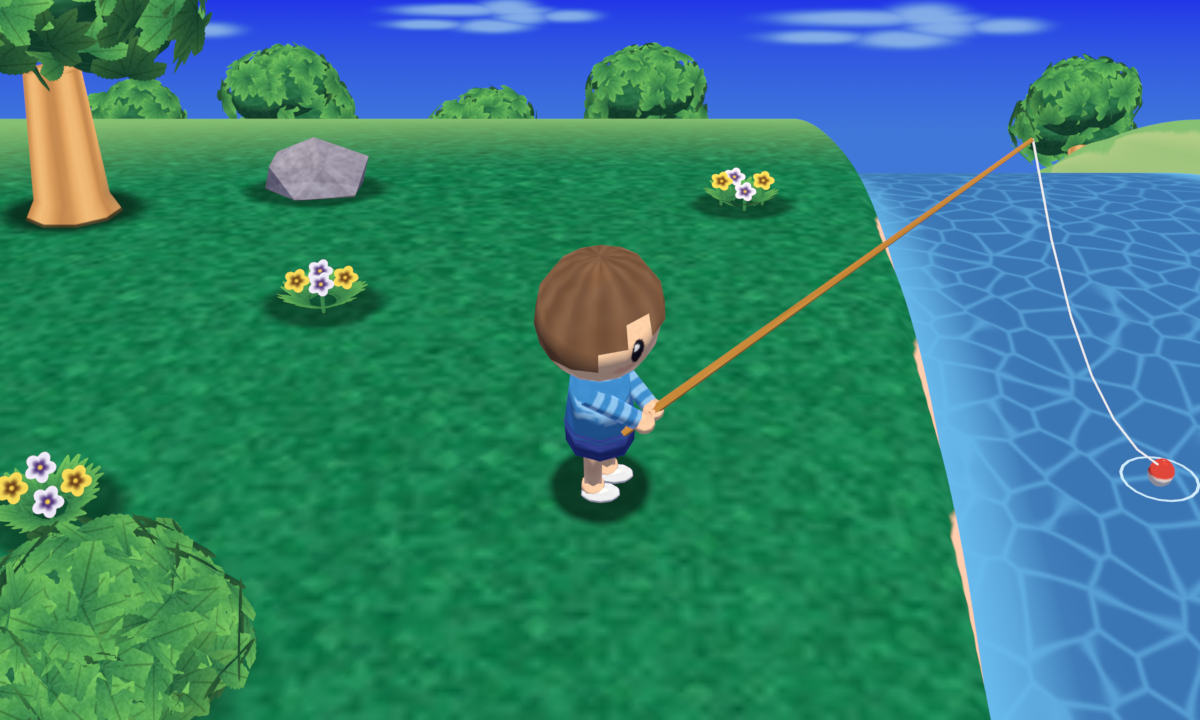
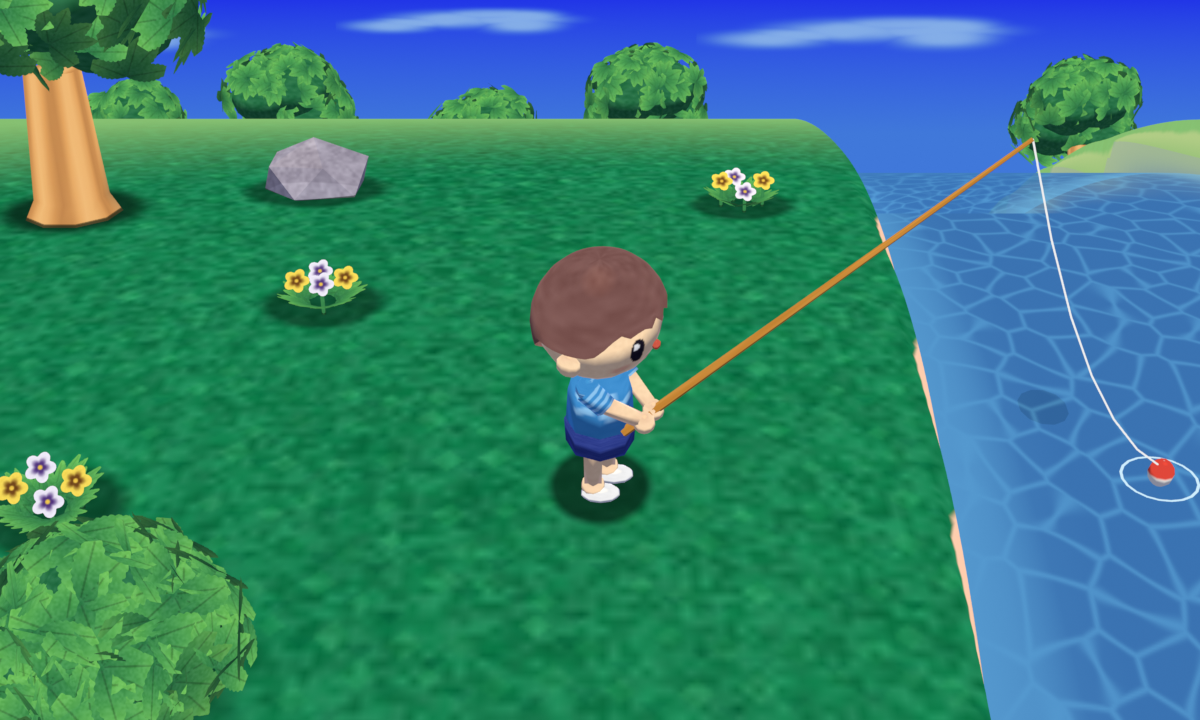
Town test scene: translucent water, cleaned up player head
Water surface is now a translucent blend, with everything under the line
fading by depth toward a pale blue grey and then the water colour (NL#957),
plus a fish silhouette below the surface. The player gets a measured skin
and hair colour, a small nose nub, ear discs, a hair shell with a zigzag
fringe, a mottled hair texture, shoulders, sleeves and forearms. Blueprint
water row and section 15 record the measurements.

Claude-Session: https://claude.ai/code/session_017uV2ZEHp81Umsc7vn6nowa

diff --git a/style_test_town/town_river_test.py b/style_test_town/town_river_test.py
@@ -76,9 +76,11 @@ PAL = {
     "water": "#3A75B4", "water_shallow": "#6BBEF0", "foam": "#FFFFFF",  # M section 4.3 (foam E)
     "foliage": "#4A9C52", "foliage_dark": "#287046", "foliage_light": "#82D362",  # M section 7.3
     "wood": "#E4A560", "wood_dark": "#A1693B", "wood_light": "#FFD391",   # M section 7.3
-    "skin": "#FFD1A8", "skin_shade": "#CE8F79",                         # M section 7.3
+    "skin": "#FDDBB2", "skin_shade": "#CE8F79",       # M skin: median of retail NL#941, 942, 944, 945 (shade 7.3)
     "rock": "#9992A2",                                                  # M section 4.2
-    "hair": "#6B4A35", "hair_light": "#8E6648",                         # E (original character)
+    "hair": "#7A5450", "hair_light": "#9A706A",       # M hair median of retail NL#941 to 945 (light E)
+    "nose": "#CF5846",                                # M retail NL#941, 945 nose nub
+    "underwater": "#A0A5AB", "water_deep": "#3B6DAC", # M NL#957 submerged post just below the line, then water
     "shirt": "#3F8FD0", "shirt_light": "#8EC6F0", "shorts": "#2F3E8C", "shoe": "#F2F2F2",  # E
     "eye": "#1E1A28", "blush": "#E08A76",                               # E eye; M blush range section 5.3
     "bobber": "#E0473A", "rod": "#C88838", "rod_band": "#585888",       # E accent red; rod structure section 5.3
@@ -362,18 +364,22 @@ def tex_face():
         col[e < 1] = hexc(PAL["eye"])
         g = ((u - cu + 0.006) / 0.008) ** 2 + ((v - cv - 0.03) / 0.022) ** 2
         col[g < 1] = 1.0
-        b = ((u - (0.5 + side * 0.11)) / 0.035) ** 2 + ((v - 0.37) / 0.035) ** 2
-        col = np.where((b < 1)[..., None], col * 0.6 + hexc(PAL["blush"]) * 0.4, col)
+        b = np.sqrt(((u - (0.5 + side * 0.115)) / 0.045) ** 2 + ((v - 0.36) / 0.05) ** 2)
+        k = smoothstep(1.0, 0.3, b)[..., None] * 0.45                     # soft pink cheeks (retail captures)
+        col = col * (1 - k) + hexc(PAL["blush"]) * k
     m = ((u - 0.5) / 0.022) ** 2 + ((v - 0.33) / 0.012) ** 2
     col[m < 1] = hexc("#B0503C")
     return make_image("T_Face", grain(col, 0.02))
 
 
 def tex_hair():
-    w, h = 64, 32
-    u = np.linspace(0, 1, w)[None, :] * np.ones((h, 1))
-    s = 0.5 + 0.5 * np.sin(2 * np.pi * u * 12 + 1.5 * fbm(w, h, 4, 1, RNG))
-    return make_image("T_Hair", grain(ramp(0.3 + 0.5 * s, [PAL["hair"], PAL["hair_light"]]), 0.03))
+    """Soft painted hair: low contrast strand mottle (no pole stripes) and a lighter sheen band (by eye)."""
+    w, h = 64, 64
+    n = 0.6 * fbm(w, h, 6, 2, RNG) + 0.4 * fbm(w, h, 24, 1, RNG)
+    v = np.linspace(0, 1, h)[:, None] * np.ones((1, w))
+    sheen = np.exp(-((v - 0.72) / 0.08) ** 2)
+    col = ramp(0.35 + 0.3 * n + 0.35 * sheen, [PAL["hair"], PAL["hair"], PAL["hair_light"]])
+    return make_image("T_Hair", grain(col, 0.03))
 
 
 def tex_shirt():
@@ -626,8 +632,33 @@ def terrain_mat(T):
     link(nt, hz.outputs["Result"], hm.inputs[0])
     link(nt, g.outputs[0], hm.inputs[6])
     hm.inputs[7].default_value = (*lin(hexc(PAL["haze"])), 1)
+    # below the water line: first a pale blue grey cast, then the deep water colour by depth (NL#957)
+    ua = nt.nodes.new("ShaderNodeAttribute")
+    ua.attribute_name = "under"
+    wet = nt.nodes.new("ShaderNodeMath")
+    wet.operation = "GREATER_THAN"
+    link(nt, ua.outputs["Fac"], wet.inputs[0])
+    wet.inputs[1].default_value = 0.001
+    c1 = nt.nodes.new("ShaderNodeMix")
+    c1.data_type = "RGBA"
+    k1 = nt.nodes.new("ShaderNodeMath")
+    k1.operation = "MULTIPLY"
+    link(nt, wet.outputs[0], k1.inputs[0])
+    k1.inputs[1].default_value = 0.45
+    link(nt, k1.outputs[0], c1.inputs[0])
+    link(nt, hm.outputs[2], c1.inputs[6])
+    c1.inputs[7].default_value = (*lin(hexc(PAL["underwater"])), 1)
+    dp = nt.nodes.new("ShaderNodeMapRange")
+    dp.interpolation_type = "SMOOTHSTEP"
+    link(nt, ua.outputs["Fac"], dp.inputs["Value"])
+    dp.inputs["From Min"].default_value, dp.inputs["From Max"].default_value = 0.0, UNDER_FADE_DEPTH
+    c2 = nt.nodes.new("ShaderNodeMix")
+    c2.data_type = "RGBA"
+    link(nt, dp.outputs["Result"], c2.inputs[0])
+    link(nt, c1.outputs[2], c2.inputs[6])
+    c2.inputs[7].default_value = (*lin(hexc(PAL["water_deep"])), 1)
     em = nt.nodes.new("ShaderNodeEmission")
-    link(nt, hm.outputs[2], em.inputs["Color"])
+    link(nt, c2.outputs[2], em.inputs["Color"])
     link(nt, em.outputs[0], out.inputs["Surface"])
     return m
 
@@ -662,8 +693,24 @@ def water_mat(T):
     mx2.inputs[7].default_value = (*lin(hexc(PAL["water_shallow"])), 1)
     em = nt.nodes.new("ShaderNodeEmission")
     link(nt, mx2.outputs[2], em.inputs["Color"])
-    link(nt, em.outputs[0], out.inputs["Surface"])
+    # translucent surface (section 4.3: NL water shows posts and tyres below the line, NL#957, 967). What lies
+    # underneath is darkened by depth in its own material (terrain "under" attribute), so the surface alpha can
+    # stay low: more see through at the banks, denser in the middle.
+    al = nt.nodes.new("ShaderNodeMapRange")
+    link(nt, at.outputs["Fac"], al.inputs["Value"])
+    al.inputs["To Min"].default_value, al.inputs["To Max"].default_value = WATER_ALPHA_MID, WATER_ALPHA_EDGE
+    tr = nt.nodes.new("ShaderNodeBsdfTransparent")
+    mxs = nt.nodes.new("ShaderNodeMixShader")
+    link(nt, al.outputs["Result"], mxs.inputs[0])
+    link(nt, tr.outputs[0], mxs.inputs[1])
+    link(nt, em.outputs[0], mxs.inputs[2])
+    link(nt, mxs.outputs[0], out.inputs["Surface"])
+    m.surface_render_method = "BLENDED"
     return m
+
+
+WATER_ALPHA_EDGE, WATER_ALPHA_MID = 0.45, 0.70        # E tuned on the render
+UNDER_FADE_DEPTH = 0.25                              # E: NL#957 posts fade out within a short depth (about 0.2 P)
 
 
 # --------------------------------------------------------------------------
@@ -676,6 +723,7 @@ def build_terrain(col, M):
     uv = bm.loops.layers.uv.new("UVMap")
     uvw = bm.loops.layers.uv.new("UVWall")
     wl = bm.verts.layers.float.new("wall")
+    ud = bm.verts.layers.float.new("under")
     grid = []
     for y in ys:
         row = []
@@ -683,6 +731,7 @@ def build_terrain(col, M):
             z = terrain_h(x, y)
             v = bm.verts.new((x, y, z))
             v[wl] = float(smoothstep(-0.03, -0.12, z))
+            v[ud] = float(max(0.0, WATER_Z - z))
             row.append(v)
         grid.append(row)
     for j in range(len(ys) - 1):
@@ -860,18 +909,26 @@ def build_player(col, M):
     def at(f, s, z):
         return PLAYER + fwd * f + side * s + Vector((0, 0, z))
 
-    head_c = at(0, 0, 0.75)
-    # head with face decal: own UVs, u around (0.5 = facing direction), v bottom to top
+    # head: wider than tall (by eye on retail NL#941 to 945), 16 x 10 (section 5.2: 12 to 16 segments)
+    head_c = at(0, 0, 0.76)
+    HX, HY, HZ = 0.215, 0.235, 0.205                     # depth, width, height radii
+
+    def surf(az_deg, lat_deg, out=0.0):
+        """Point on the head ellipsoid (az 0 = facing direction, positive toward the player's left)."""
+        az, la = math.radians(az_deg), math.radians(lat_deg)
+        loc = Vector(((HX + out) * math.cos(la) * math.cos(az), (HY + out) * math.cos(la) * math.sin(az),
+                      (HZ + out) * math.sin(la)))
+        return head_c + R.to_3x3() @ loc
+
     bm = bmesh.new()
     uv = bm.loops.layers.uv.new("UVMap")
-    res = bmesh.ops.create_uvsphere(bm, u_segments=14, v_segments=8, radius=0.21,
-                                    matrix=Matrix.Translation(head_c) @ R @ Matrix.Diagonal((1.0, 1.08, 1.0, 1.0)))
+    res = bmesh.ops.create_uvsphere(bm, u_segments=16, v_segments=10, radius=1.0,
+                                    matrix=Matrix.Translation(head_c) @ R @ Matrix.Diagonal((HX, HY, HZ, 1.0)))
     for f in {f for v in res["verts"] for f in v.link_faces}:
         for lp in f.loops:
-            d = (R.inverted() @ (lp.vert.co - head_c)).normalized()
-            u = 0.5 + math.atan2(d.y, d.x) / (2 * math.pi)
-            lp[uv].uv = (u, 0.5 + math.asin(max(-1, min(1, d.z))) / math.pi)
-        # fix the seam behind the head
+            d = R.inverted() @ (lp.vert.co - head_c)
+            d = Vector((d.x / HX, d.y / HY, d.z / HZ)).normalized()
+            lp[uv].uv = (0.5 + math.atan2(d.y, d.x) / (2 * math.pi), 0.5 + math.asin(max(-1, min(1, d.z))) / math.pi)
         us = [lp[uv].uv.x for lp in f.loops]
         if max(us) - min(us) > 0.5:
             for lp in f.loops:
@@ -879,28 +936,67 @@ def build_player(col, M):
                     lp[uv].uv.x += 1.0
     mesh_object("Head", bm, col, [M["face"]])
 
+    # nose: a small red orange nub below the eyes, about 0.07 of the head width (retail NL#941, 945)
     bm, uv = new_bm()
-    hres = bmesh.ops.create_uvsphere(bm, u_segments=14, v_segments=8, radius=0.225,
-                                     matrix=Matrix.Translation(head_c + Vector((0, 0, 0.025))) @ R @
-                                     Matrix.Diagonal((1.0, 1.1, 1.0, 1.0)), calc_uvs=True)
-    kill = []
-    for f in {f for v in hres["verts"] for f in v.link_faces}:
-        c = R.inverted() @ (f.calc_center_median() - head_c)
-        # fringe: keep alternating front faces lower, so the shell edge itself forms the zigzag (section 5.2)
-        ang = math.atan2(c.y, c.x)
-        tooth = (int((ang + math.pi) / (2 * math.pi) * 14) % 2) == 0
-        front_ok = c.x > 0 and c.z > (0.03 if tooth else 0.09)
-        if not (c.z > 0.09 or front_ok or (c.x < -0.05 and c.z > -0.16) or
-                (c.x < 0.06 and c.z > -0.04 and abs(c.y) > 0.18)):
-            kill.append(f)
+    nc = surf(0, -15, 0.004)
+    bm_sphere(bm, uv, nc, 0.020, scale=(0.75, 1.0, 0.85), segs=8, rings=5, rot=R.to_quaternion())
+    mesh_object("Nose", bm, col, [M["nose"]])
+
+    # ears: round skin discs at the sides, eye to cheek height, about 0.19 of the head width (retail captures)
+    bm, uv = new_bm()
+    for sgn in (-1, 1):
+        c = surf(sgn * 92, -15, 0.006)
+        n = (c - head_c).normalized()
+        rot = Vector((1, 0, 0)).rotation_difference(n)
+        bm_sphere(bm, uv, c, 0.050, scale=(0.6, 0.9, 1.0), segs=10, rings=6, rot=rot)
+    mesh_object("Ears", bm, col, [M["skin"]])
+
+    # hair: a shell 0.022 off the head; vertices below the hairline are pulled up onto it, so the zigzag fringe
+    # (6 teeth across the forehead) is an exact edge, the sides stop at the ear tops, the back covers the nape.
+    def hairline(az):
+        a_ = abs(az)
+        if a_ <= 52:
+            phase = (az + 52) / (104 / 6)                 # 6 teeth
+            tooth = abs((phase % 1.0) - 0.5) * 2          # 1 at tooth tips, 0 between
+            return 12 + 9 * (1 - tooth)
+        if a_ <= 70:                                       # temple: fringe height down to the ear top
+            t = (a_ - 52) / 18
+            return 16 * (1 - t) + 1 * t
+        if a_ <= 120:
+            return 1.0
+        t = min(1.0, (a_ - 120) / 40)
+        return 1 * (1 - t) - 38 * t
+
+    bm = bmesh.new()
+    uv = bm.loops.layers.uv.new("UVMap")
+    off = 0.022
+    hres = bmesh.ops.create_uvsphere(bm, u_segments=48, v_segments=14, radius=1.0,
+                                     matrix=Matrix.Diagonal((1.0, 1.0, 1.0, 1.0)), calc_uvs=True)
+    moved = set()
+    for v in hres["verts"]:
+        az = math.degrees(math.atan2(v.co.y, v.co.x))
+        la = math.degrees(math.asin(max(-1, min(1, v.co.z))))
+        hl = hairline(az)
+        if la < hl:
+            la = hl
+            moved.add(v)
+        v.co = surf(az, la, off) - head_c
+        v.co = v.co + head_c
+    kill = [f for f in bm.faces if all(v in moved for v in f.verts)]
     bmesh.ops.delete(bm, geom=kill, context="FACES")
     mesh_object("Hair", bm, col, [M["hair"]])
 
-    bm, uv = new_bm()                                    # torso (shirt strip front block), arms
-    bm_tube(bm, uv, [at(0, 0, 0.30), at(0, 0, 0.55)], [0.13, 0.10], 8, v0=0.75, v1=1.0, cap_end=True, cap_start=True)
+    bm, uv = new_bm()                                    # torso (shirt), short sleeves
+    bm_tube(bm, uv, [at(0, 0, 0.29), at(0, 0, 0.45), at(0, 0, 0.565)], [0.125, 0.115, 0.085], 8, v0=0.75, v1=1.0,
+            cap_end=True, cap_start=True)
     for s in (-1, 1):
-        bm_tube(bm, uv, [at(0, s * 0.11, 0.50), at(0.17, s * 0.05, 0.40)], [0.04, 0.035], 6, v0=0.0, v1=0.24)
+        bm_sphere(bm, uv, at(0, s * 0.10, 0.52), 0.045, segs=8, rings=5)          # shoulder
+        bm_tube(bm, uv, [at(0, s * 0.11, 0.52), at(0.07, s * 0.10, 0.46)], [0.045, 0.042], 6, v0=0.0, v1=0.24)
     mesh_object("Body", bm, col, [M["shirt"]])
+    bm, uv = new_bm()                                    # forearms (skin) to the mitten hands
+    for s in (-1, 1):
+        bm_tube(bm, uv, [at(0.06, s * 0.10, 0.47), at(0.18, s * 0.045, 0.40)], [0.032, 0.028], 6)
+    mesh_object("Forearms", bm, col, [M["skin"]])
     bm, uv = new_bm()
     bm_tube(bm, uv, [at(0, 0, 0.22), at(0, 0, 0.32)], [0.125, 0.13], 8, cap_start=True)
     mesh_object("Shorts", bm, col, [M["shorts"]])
@@ -924,6 +1020,11 @@ def build_player(col, M):
     bm_tube(bm, uv, [grip - Vector((0.1, 0.0, 0.07)), tip], [0.018, 0.007], 6, v0=0.0, v1=1.0)
     mesh_object("Rod", bm, col, [M["rod"]])
     bob = Vector((2.35, 0.55, WATER_Z + 0.02))
+    bm, uv = new_bm()                                    # fish shadow: dark spindle a little below the surface
+    fc = Vector((2.05, 1.25, WATER_Z - 0.06))
+    bm_sphere(bm, uv, fc, 0.16, scale=(0.55, 1.0, 0.18), segs=12, rings=5,
+              rot=Vector((0, 1, 0)).rotation_difference((bob - fc).normalized()))
+    mesh_object("FishShadow", bm, col, [M["fish"]], smooth=True)
     bm, uv = new_bm()
     pts = []
     for k in range(7):
@@ -1086,6 +1187,8 @@ def build(native=False):
         "line": unlit("M_Line", "#F0F0F0"),
         "bobber": mat("M_Bobber", image=T["bobber"]),
         "foam": unlit("M_Foam", "#CFEFFF"),
+        "nose": mat("M_Nose", image=tex_flat("T_Nose", ["#B84838", PAL["nose"], "#E06A55"], 0.02, 2), rim=1.0),
+        "fish": unlit("M_Fish", "#0E2448"),
         "blob": blob_mat("M_Blob", BLOB_CORE_ALPHA, BLOB_TINT_LIN),
         "contact": blob_mat("M_Contact", CONTACT_ALPHA, BLOB_TINT_LIN, inner=0.70, wobble=0.10),
         "canopy": blob_mat("M_CanopyShadow", CANOPY_ALPHA, BLOB_TINT_LIN, inner=0.55, wobble=0.16),
@@ -1162,7 +1265,8 @@ def check(info):
         print(f"  tree ({x}, {y}): crown top row {1 - vt.y:.3f}, base row {1 - vb.y:.3f}, column {vt.x:.3f}")
     tris = sum(sum(len(p.vertices) - 2 for p in o.data.polygons) for o in sc.objects if o.type == "MESH")
     pl = sum(sum(len(p.vertices) - 2 for p in o.data.polygons) for o in sc.objects
-             if o.type == "MESH" and o.name.split(".")[0] in ("Head", "Hair", "Body", "Shorts", "Legs", "Shoes", "Hands"))
+             if o.type == "MESH" and o.name.split(".")[0] in ("Head", "Hair", "Body", "Shorts", "Legs", "Shoes", "Hands",
+                                                               "Nose", "Ears", "Forearms"))
     print(f"triangles: player {pl}, scene {tris}")
 
 

diff --git a/style_blueprint/BLUEPRINT.md b/style_blueprint/BLUEPRINT.md
@@ -173,7 +173,7 @@ Audit [Au] (`audit/nl_blob2.py`: horizontal profile at the sole row, normalised 
 |---|---|---|
 | colours | sea #25549A (CF#871), near bank #3275A7, river #2886C5 / #2B6DA5, shallow #2A88AF | sea #3A75B4 to #3D7ABB; shallow shore #6BBEF0; far sea #96B8F9 (haze) |
 | caustics | tiled cellular line texture; period 185 px (y 250) to 227 px (y 450) in an 832 px frame; lines +18% at p95, +39% at p99 over the water median; soft 15 to 20 px ramps | cellular, period 115 to 120 px at y 210 to 230 of 240 (NL#960); gentle swells |
-| opacity | opaque, no visible bottom | transparent enough to show pier posts and tyres (NL#957, 967, press) |
+| opacity | opaque, no visible bottom | TRANSLUCENT near the surface: submerged posts and tyres stay visible (NL#957, 967, press). NL#957 column through a post: wood #F5B272 above the line, then #A0A5AB, #808BA4, #5F7BA5 just below, reaching the water #3B6DAC within about 12 px (roughly 0.2 P): a pale blue grey cast first, then the water colour by depth. Fish read as dark shapes under the surface. M (one press frame) |
 | shoreline (CF#871 x 720, top to bottom) | dry sand (231,203,139); light wet (231,215,163) 16 px; darker wet (211,195,151) 12 px; foam (168 to 190, 221 to 224, 218 to 230) 3 to 4 px; smooth ramp to (39,103,152) over 40 px | white foam band at least 5 px at the sand line (NL#949) |
 | source | A, vA (H for CF#871; NL M, press); [Au] CF#871 sea #25539A: CONFIRMED | A, vA, vC; [Au] near water rows 120 to 240: NL#957 #396FAD, NL#960 #3A72AF, 3 to 5% darker than #3A75B4: CONFIRMED within 8 levels |
 
@@ -687,3 +687,14 @@ New evidence and corrections found while building `style_test_town/town_river_te
   horizon trees have their base hidden by the bend.
 * Clouds: retail NL#939 shows thin low contrast wisps (see 4.1). Placed as unbent cards along camera rays beyond the
   bent ground so they only show inside the thin sky strip.
+* Water (third test pass): the surface is a Blended mix of the water colour and transparency (alpha 0.45 at the banks,
+  0.70 mid river, estimates tuned by eye), and everything under the line darkens in its own material by depth below
+  the water line, stored before the bend: a 0.45 blend toward #A0A5AB at the line, then toward #3B6DAC over 0.25 P
+  (NL#957). A dark fish silhouette (#0E2448, unlit, 0.06 P down) shows the translucency.
+* Player head (retail NL#941, 942, 944, 945, emote crops, by eye plus pixel medians): skin median #FDDBB2; hair
+  #7A5450; head wider than tall (radii used: width 0.235 P, height 0.205 P, depth 0.215 P); nose a small red orange
+  nub #CF5846 just below the eye line, about 0.07 of the head width; ears round skin discs at the sides at eye to
+  cheek height, about 0.19 of the head width, left visible below the hair; hair a separate shell (0.022 P off the
+  head) covering top, back and sides down to the ear tops, with a zigzag fringe of about 6 teeth across the forehead;
+  soft pink cheeks. Hair texture: low contrast mottle plus a sheen band, not stripes radiating from the crown (those
+  read as a melon on a UV sphere).
